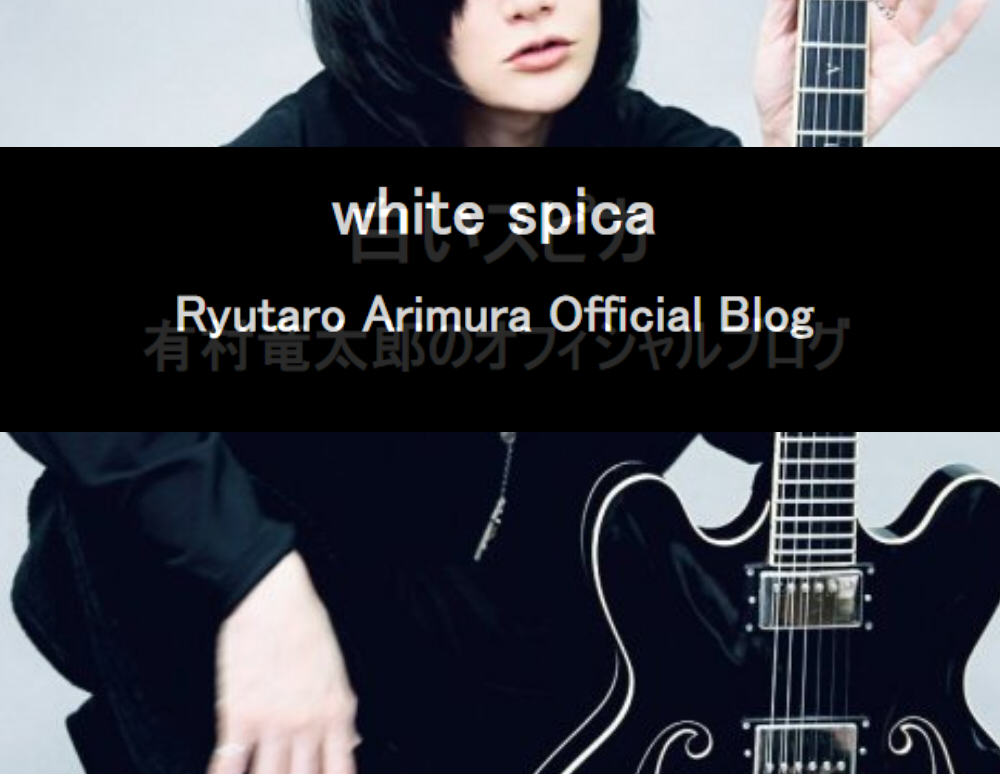
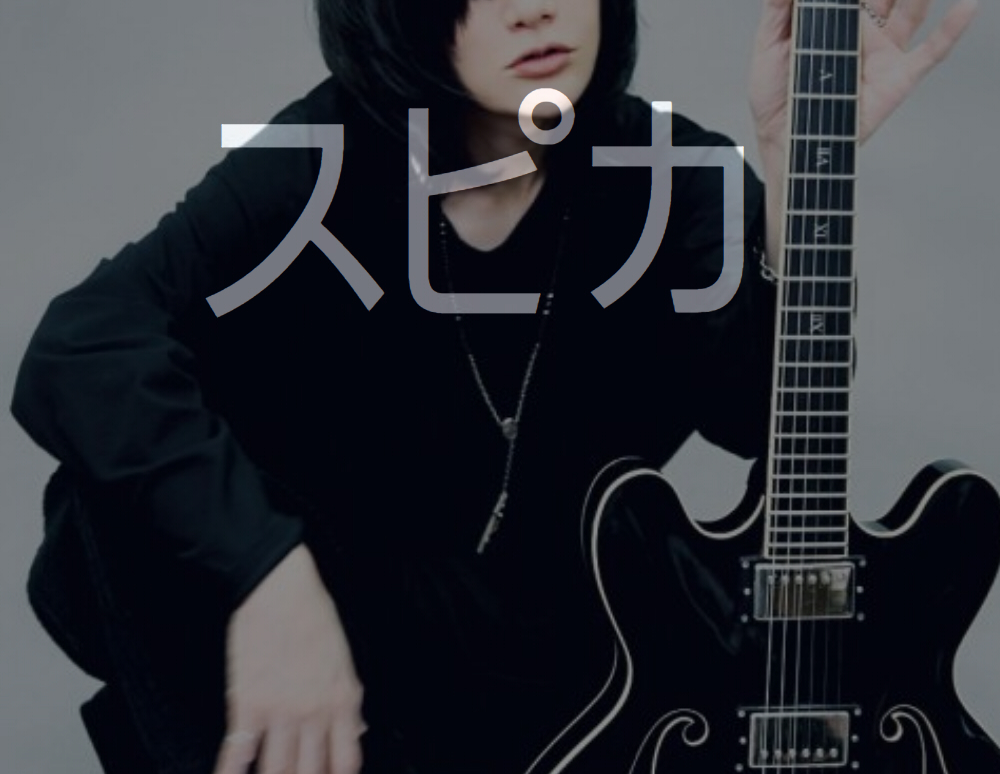
Updated About and fixed link hover style.

diff --git a/public_html/about.html b/public_html/about.html
@@ -49,14 +49,18 @@
                   <img src="images/about-bio-short.jpg" alt="Portrait of Patti looking at the camera smiling wearing a hat, pigtails, jean jacket, and jeans." height="464" width="347">
                </div>
                <div class="col-lg">
-                  <blockquote><i class="fa-solid fa-quote-left"></i> Hi! I'm Patti.<br /><br /> I am a Torontonian<br /> <strong>Web Developer</strong>, <strong>U of T Alumni</strong>, <strong>Visual Artist</strong>, and <strong>Musician</strong>. <i class="fa-solid fa-quote-right"></i></blockquote>
+                  <blockquote>
+                     <i class="fa-solid fa-quote-left"></i>
+                     <strong>Hi! I'm Patti. I am a... <i class="fa-solid fa-quote-right"></i></strong>
+                     <p>Torontonian, Web Developer, U of T Alumni, Visual Artist, Musician, etc.</p>
+                  </blockquote>
                </div>
             </div>
             <div class="row border-bottom vertical-align">
                <div class="col-lg">
                   <h3>When I Started</h3>      
                   <p>In the summer of 2020 I decided to <strong>update my professional skillset</strong> and, while trying to decide what I should do, I thought back fondly on my childhood days making <strong>Geocities fansites</strong> and how I was both good at it and enjoyed it. The idea that I could do something technical, yet creative, was very appealing to me.</p>
-                  <p>As a result, I enrolled in a <strong>Continuing Education Certificate Course</strong> with McMaster University and have been studying and working on projects ever since.</p>
+                  <p>And so, I enrolled in a <strong>Continuing Education Certificate Course</strong> with McMaster University and have been studying and working on projects ever since.</p>
                </div>
                <div class="col-lg">
                   <img src="images/about-bottom-1-web.jpg" alt="" height="1500" width="1000">
@@ -68,27 +72,21 @@
                </div>
                <div class="col-lg">
                   <h3>What I Do</h3>
-                  <p>I work primarily in <strong>front&#45;end development</strong>, designing, developing, and deploying websites from wireframe to an online finished project, like a digital barn raising.
-                  <p>Specifically, I...</p>
+                  <p>I work primarily in <strong>front&#45;end development</strong>&#59; Designing, developing, and deploying websites from wireframe to an online finished project, like a digital barn raising.
+                  <p>Put more technically, my time spent studying and <a href="projects.html">building things</a> has given me hands on experience in the following:</p>
                   <ul class="about-ul-dash">
-                     <li>Proven ability to translate approved design mock-ups to final websites.</li>
-                     <li>Have familiarity with browser testing and debugging</li>
-                     <li>Have a good understanding of responsive layouts, mobile-first design, etc</li>
-                     <li>Extensive knowledge for best UX/UI practices with an eye for detail</li>
-                     <li>Working knowledge of design tools: Photoshop & Illustrator</li>
-                     <li>Understanding web/mobile responsive design, web standards, UI/UX best practices and handling cross-browser compatibility issues</li>
-                     <li>Have hands-on experience designing, developing, testing and troubleshooting</li>
-                     <li>Experience in using source code/version control systems</li>
-                     <li>Produce code that is compliant with current ADOA and WCAG accessibility requirements.</li>
-                     <li>Accessibility knowledge (WCAG 2.0 Level AA)</li>
-                     <li>Wireframing</li>
-                     <li>Prototyping</li>
-                     <li>Style Guide Creation</li>
-                     <li>Graphic Design</li>
-                     <li>Interactivity</li>
+                     <li>Translating design mock-ups to finished products.</li>
+                     <li><strong>Graphic editing software</strong> such as Photoshop.</li>
+                     <li><strong>Version control systems</strong> such as Git.</li>
+                     <li>Console/<strong>Command-line</strong>/Terminal interfaces.</li>
+                     <li><strong>Browser testing</strong>, <strong>debugging</strong>, and <strong>troubleshooting</strong>.</li>
+                     <li><strong>Mobile-first</strong>, responsive design and best practices.</li>
+                     <li><strong>W3C and WCAG</strong> international web standards.</li>
+                     <li><strong>UX/UI</strong> best practices.</li>
+                     <li>JavaScript <strong>interactivity</strong>.</li>
+                     <li>Basic <strong>Node.js</strong> (NPM, JSON).</li>
                   </ul>
-                  <p>In the future, I would also like to expand more into back-end development as well.</p>
-                  <p>My style of design is <strong>retro and eccentric</strong>, <strong>muted yet colourful</strong>, and a delicate <strong>balance between light and dark</strong>. I work in extremes, while maintaining a standard of <strong>modernity and adaptability</strong>.</p>
+                  <p>My style of design is <strong>retro and eccentric</strong>, <strong>muted yet colourful</strong>, and a delicate <strong>balance between light and dark</strong>.</p>
                </div>
             </div>
             <div class="row vertical-align">

diff --git a/public_html/projects.html b/public_html/projects.html
@@ -64,7 +64,7 @@
                   <p class="bottom-padding"><strong>Official Business Website</strong> of Magical Mystery Tours&#39;, a fictional company based on the corresponding Beatles album&#47;movie.</p>
                </div>
             </div>
-            <div class="row">
+            <div class="row border-bottom">
                <!--SPLASH-->
                <div class="col-lg border-right-lg">
                   <div class="project-button" id="splash-button">
@@ -84,7 +84,6 @@
                   <p class="bottom-padding">McMaster Web Design program activity&#58; designing a <strong>website for a mock client</strong>.</p>
                </div>
             </div>
-
             <div class="row">
                <!--SPICA-->
                <div class="col-lg border-right-lg">
@@ -92,8 +91,8 @@
                      <a href="projects/proj-spica/index.html" target="_blank" title="00s Japanese Blog Project Online"><i class="fa-solid fa-arrow-up-right-from-square"></i></a>
                      <a href="https://github.com/wellingp/6-spica" target="_blank" title="00s Japanese Blog Project On Github"><i class="fa-brands fa-github"></i></a>
                   </div>
-                  <h3 class="side-padding">00s Japanese Blog</h3>
-                  <p class="bottom-padding"><strong>"Official" blog</strong> of Ryutaro Arimura, vocalist of Japanese band Plastic Tree.</p>
+                  <h3 class="side-padding">Spica &#58; 00s Japanese Blog</h3>
+                  <p class="bottom-padding">An <strong>&#34;Official&#34; Blog</strong> created in the theme of Ryutaro Arimura, vocalist of Japanese band Plastic Tree.</p>
                </div>
                <!--COMING SOON-->
                <div class="col-lg">
@@ -102,11 +101,9 @@
                      <a href="#" target="_blank" title="Github Link Coming Soon"><i class="fa-brands fa-github"></i></a>
                   </div>
                   <h3 class="side-padding">Coming Soon...</h3>
-                  <p class="bottom-padding">...</p>
+                  <p class="bottom-padding">Keep an eye on my page for regular project updates!</p>
                </div>
             </div>
-
-
          </div>
       </main>
       <footer>

diff --git a/public_html/styles/main-style.css b/public_html/styles/main-style.css
@@ -254,17 +254,21 @@ footer a{
    margin-bottom: 2%;
 }
 
-main a, footer a{
+main a{
    color: rgb(195, 123, 123);
 }
 
-main a:hover, footer a:hover{
+a:hover, main a:hover{
    color: rgb(233, 198, 198);
 }
 
-main a:visited, footer a:visited{
+main a:visited{
    color: rgb(129, 89, 89);
    margin-bottom: 2%;
+}
+
+main a:visited:hover{
+   color: rgb(172, 150, 150);
 }
 
 i{
@@ -311,7 +315,6 @@ blockquote{
    color: rgba(255, 181, 195, 0.785);
    font-size: 1.3em;
    font-style: italic;
-   font-weight: 500;
    background-color: rgba(255, 255, 255, 0.1);
    border-radius: 10px;
    padding: 10%;
@@ -334,20 +337,6 @@ ul#nav-ul{
    padding-left: 0;
 }
 
-#nav-ul li{
-   display: inline;
-   font-size: 1.1em;
-   padding-left: 2%;
-}
-
-#nav-ul li:hover{
-   color: rgb(227, 227, 227);
-}
-
-#nav-ul li:visited{
-   color: rgb(114, 100, 117);
-}
-
 .active-nav{
    color: rgb(156, 207, 101);
 }
@@ -363,18 +352,20 @@ footer ul{
    font-size: 0.8em;
 }
 
-#footer-ul li:hover{
-   color: rgb(144, 144, 144);
+#footer-ul a{
+   color: rgb(161, 136, 151);
 }
 
-#hidden-footer-ul li{
-   padding-right:2%;
-   font-weight: 300;
-   font-size: 0.9em;
+#footer-ul a:hover{
+   color: rgb(212, 195, 205);
 }
 
-#hidden-footer-ul li:hover{
-   color: rgb(144, 144, 144);
+#footer-ul a:visited{
+   color: rgb(118, 80, 101);
+}
+
+#footer-ul a:visited:hover{
+   color: rgb(211, 197, 207);
 }
 
 ul.inline{
@@ -400,7 +391,7 @@ ul.inline a{
 
 .about-ul-dash li{
    list-style-type: '⬦ ';
-   font-size: 0.9em;
+   font-size: 1rem;
 }
 
 .list-style-dash li{
